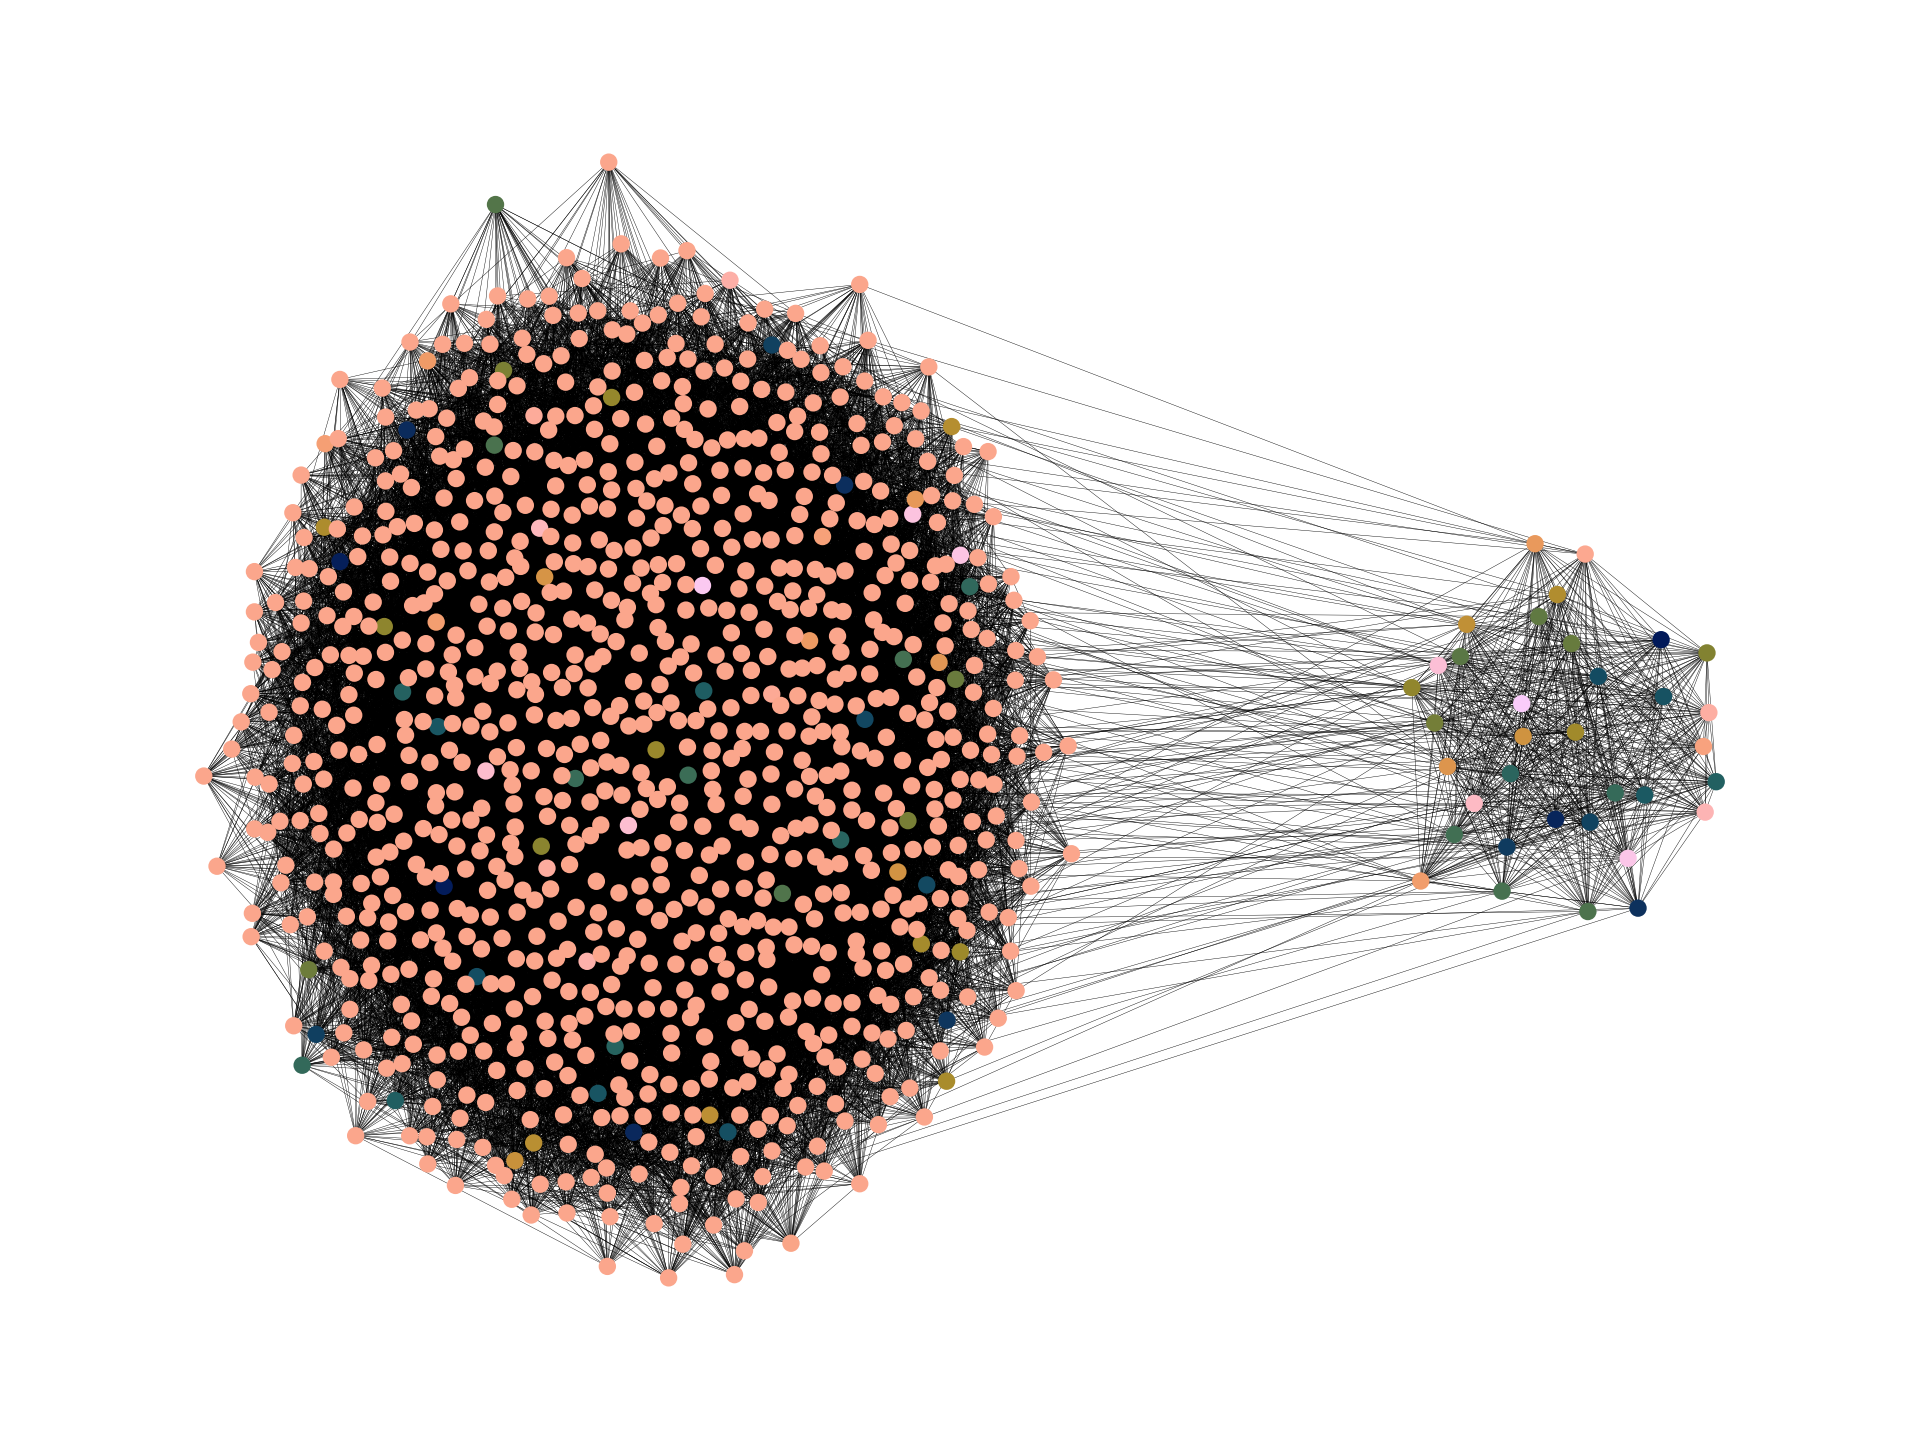
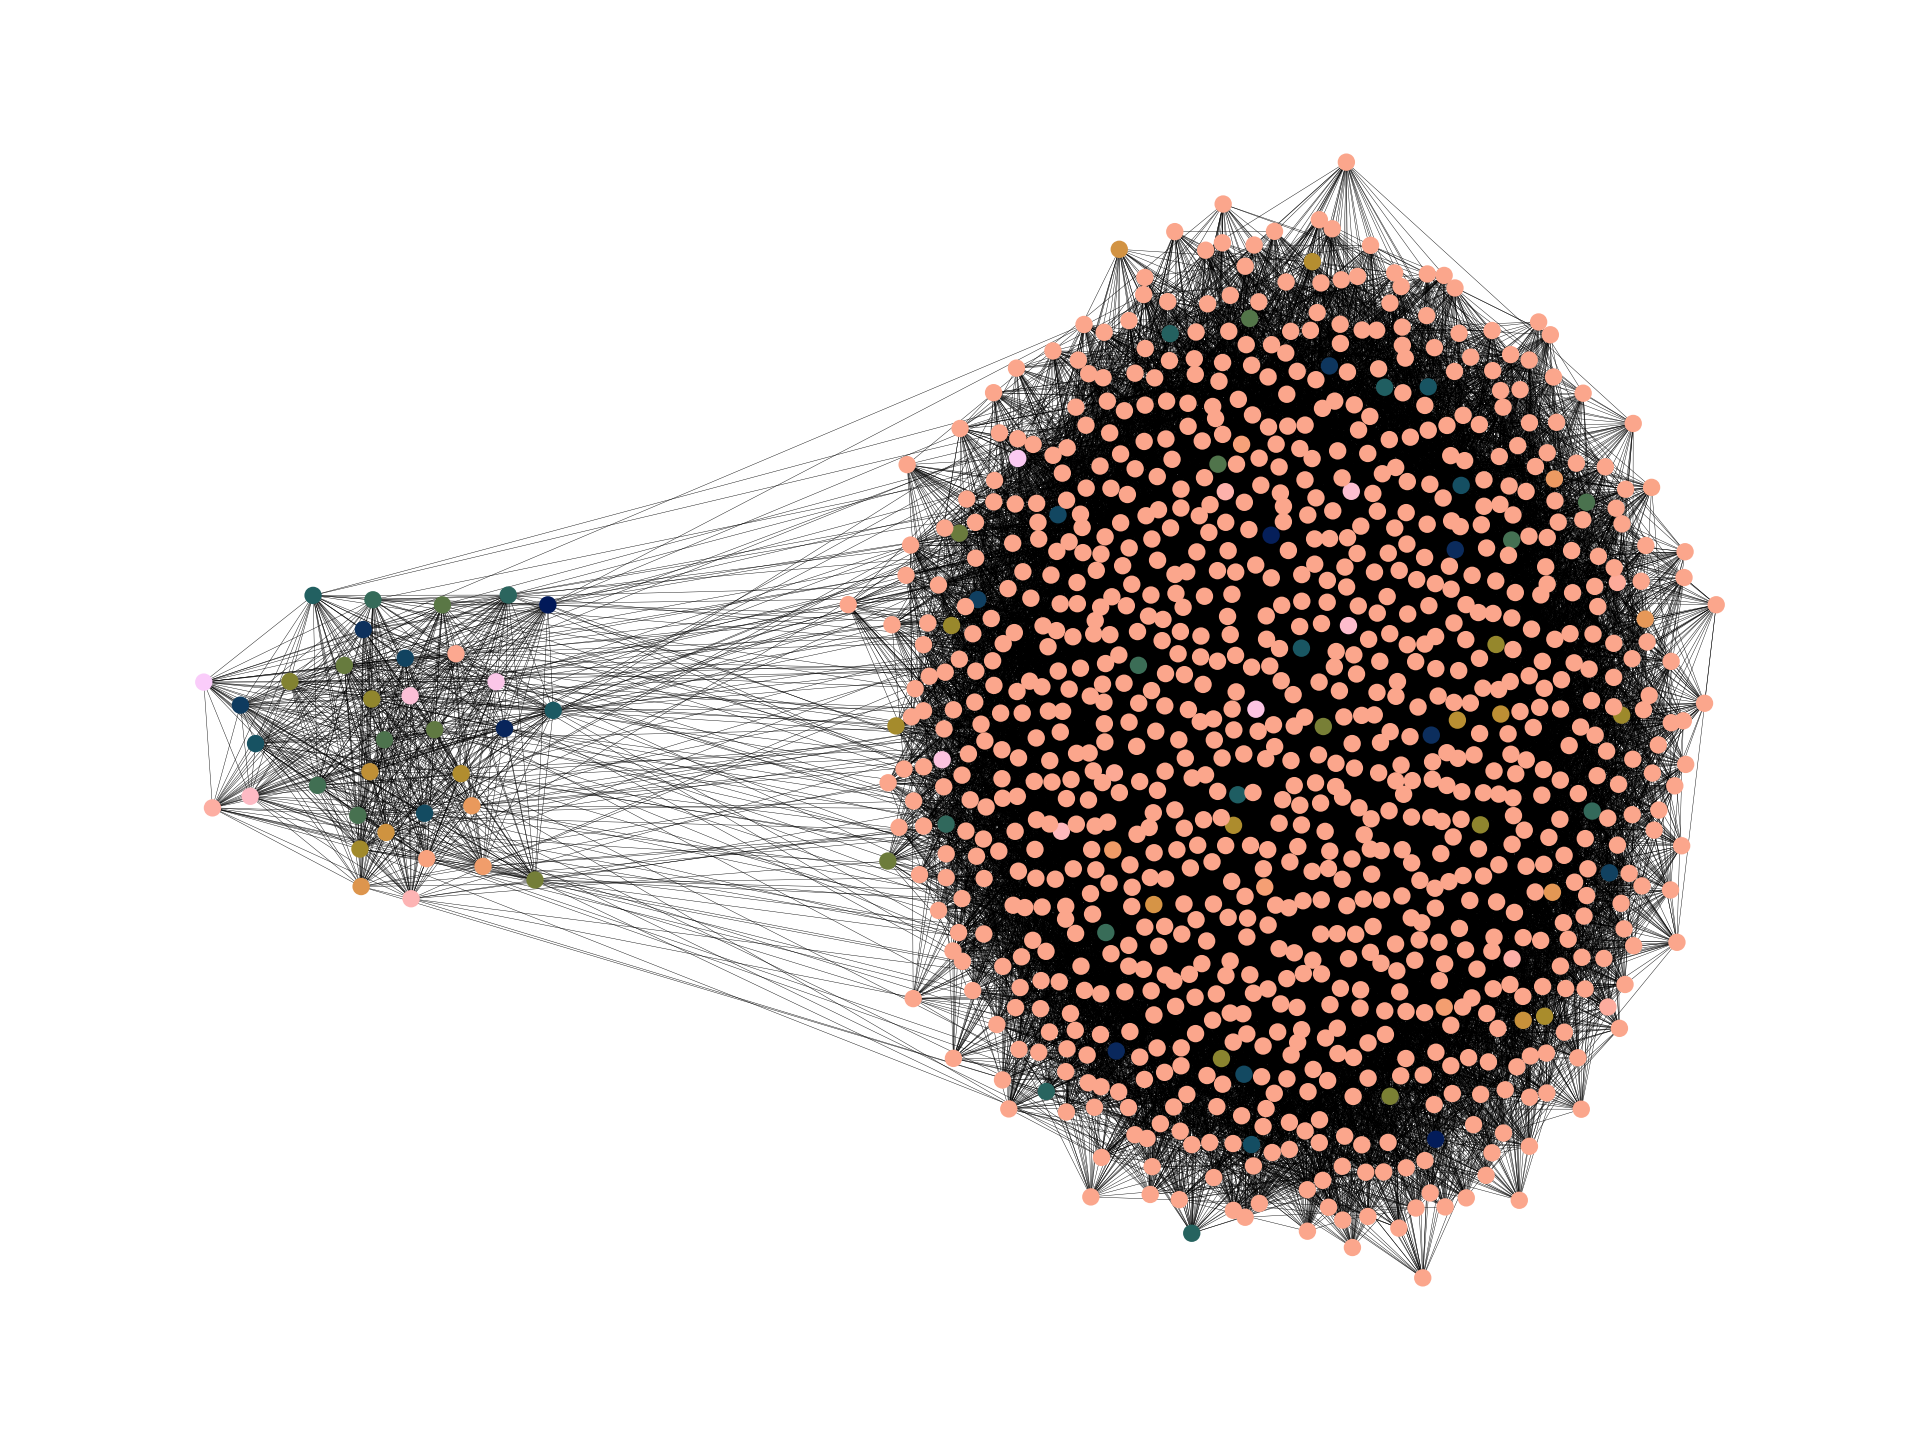
d2d

diff --git a/code/solidarity.py b/code/solidarity.py
@@ -36,7 +36,7 @@ if __name__ == '__main__':
 
     # Run simulation.
     deltas, betas, acts = engine(
-        G, N=N, R=R, rule='b2b', w=1, deltas=deltas, betas=betas, nu=0.5,
+        G, N=N, R=R, rule='d2d', w=1, deltas=deltas, betas=betas, nu=0.5,
         pi='uniform', tau=0.1, sigma_tau=0.0, psi=1, sigma_psi=0.0, rng=rng)
 
     # Plot the network.
